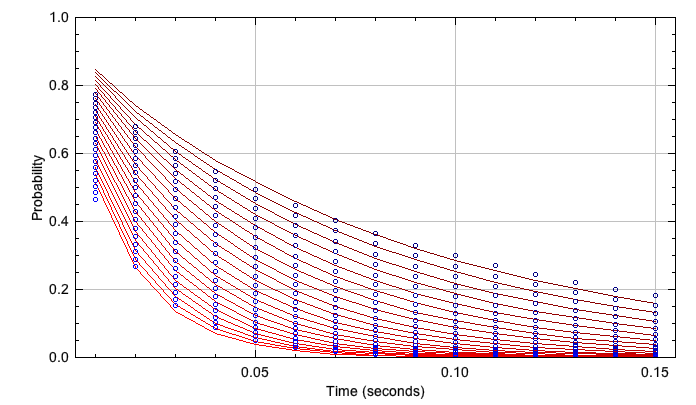
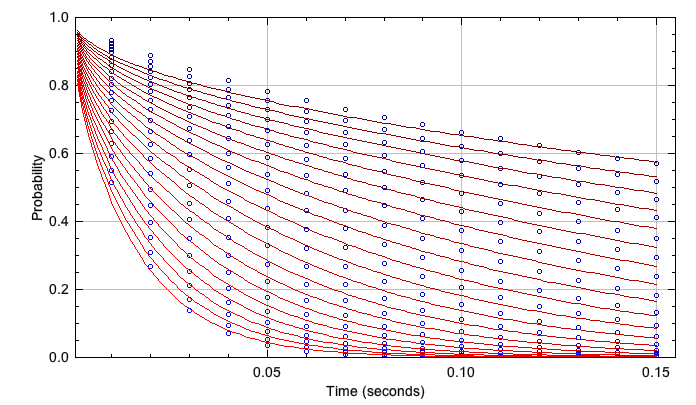
Increase resolution of fitted probability

diff --git a/gdsc-smlm-ij/src/main/java/uk/ac/sussex/gdsc/smlm/ij/plugins/DiffusionDepthOfField.java b/gdsc-smlm-ij/src/main/java/uk/ac/sussex/gdsc/smlm/ij/plugins/DiffusionDepthOfField.java
@@ -597,26 +597,32 @@ public class DiffusionDepthOfField implements PlugIn {
    */
   private void plotRemaining(final double[][] probability, double[][] fitted) {
     final double dt = settings.exposureTime / 1000;
-    final int maxT = settings.maxT;
+    final int n = probability[0].length;
+    final int m = fitted[0].length;
 
     // Plot the observed distribution.
     // For each D add a line for all time steps
-    final float[] time = SimpleArrayUtils.newArray(maxT, 1.0f, 1.0f);
+    final float[] time = SimpleArrayUtils.newArray(n, 1.0f, 1.0f);
     SimpleArrayUtils.apply(time, x -> (float) (x * dt));
     final String title = TITLE + " probability";
     final Plot plot = new Plot(title, "Time (seconds)", "Probability");
-    LUT lut = LutHelper.createLut(LutColour.RED);
+    LUT lut = LutHelper.createLut(LutColour.BLUE);
     for (int i = 0; i < probability.length; i++) {
       plot.setColor(LutHelper.getColour(lut, 2 * (i + 1), 1, 2 * probability.length));
-      plot.addPoints(time, SimpleArrayUtils.toFloat(probability[i]), Plot.LINE);
+      plot.addPoints(time, SimpleArrayUtils.toFloat(probability[i]), Plot.CIRCLE);
     }
-    lut = LutHelper.createLut(LutColour.BLUE);
+    // Compute the scale
+    double scale = dt * n / m;
+    final float[] time2 = SimpleArrayUtils.newArray(m, 1.0f, 1.0f);
+    SimpleArrayUtils.apply(time2, x -> (float) (x * scale));
+
+    lut = LutHelper.createLut(LutColour.RED);
     for (int i = 0; i < fitted.length; i++) {
       plot.setColor(LutHelper.getColour(lut, 2 * (i + 1), 1, 2 * fitted.length));
-      plot.addPoints(time, SimpleArrayUtils.toFloat(fitted[i]), Plot.CIRCLE);
+      plot.addPoints(time2, SimpleArrayUtils.toFloat(fitted[i]), Plot.LINE);
     }
     plot.setColor(Color.black);
-    plot.setLimits(dt * 0.5, dt * maxT + dt * 0.5, 0, 1);
+    plot.setLimits(dt * 0.5 * n / m, dt * n + dt * 0.5, 0, 1);
 
     ImageJUtils.display(title, plot);
   }
@@ -804,13 +810,16 @@ public class DiffusionDepthOfField implements PlugIn {
   }
 
   private double[][] createProbability(double[] ab) {
-    final double dt = settings.exposureTime / 1000;
+    // Increase resolution
+    final int scale = 8;
+
+    final double dt = settings.exposureTime / (1000 * scale);
     final double dz = settings.depthOfField / 1000;
     final double[] diffusionCoefficients = createDiffusionCoefficients();
 
     final double a = ab[0];
     final double b = ab[1];
-    final double[][] probability = new double[diffusionCoefficients.length][settings.maxT];
+    final double[][] probability = new double[diffusionCoefficients.length][settings.maxT * scale];
 
     for (int i = 0; i < probability.length; i++) {
       final double d = diffusionCoefficients[i];

diff --git a/docs/calibration_plugins.rst b/docs/calibration_plugins.rst
@@ -1630,7 +1630,7 @@ The simulated fraction remaining is plotted using lines with the fitted probabil
 
     Depth of field simulation plot
 
-    Simulated fraction remaining in red lines; fitted probability in blue points.
+    Simulated fraction remaining in blue points; fitted probability in red lines.
 
 Fitting results are output to a summary table:
 
